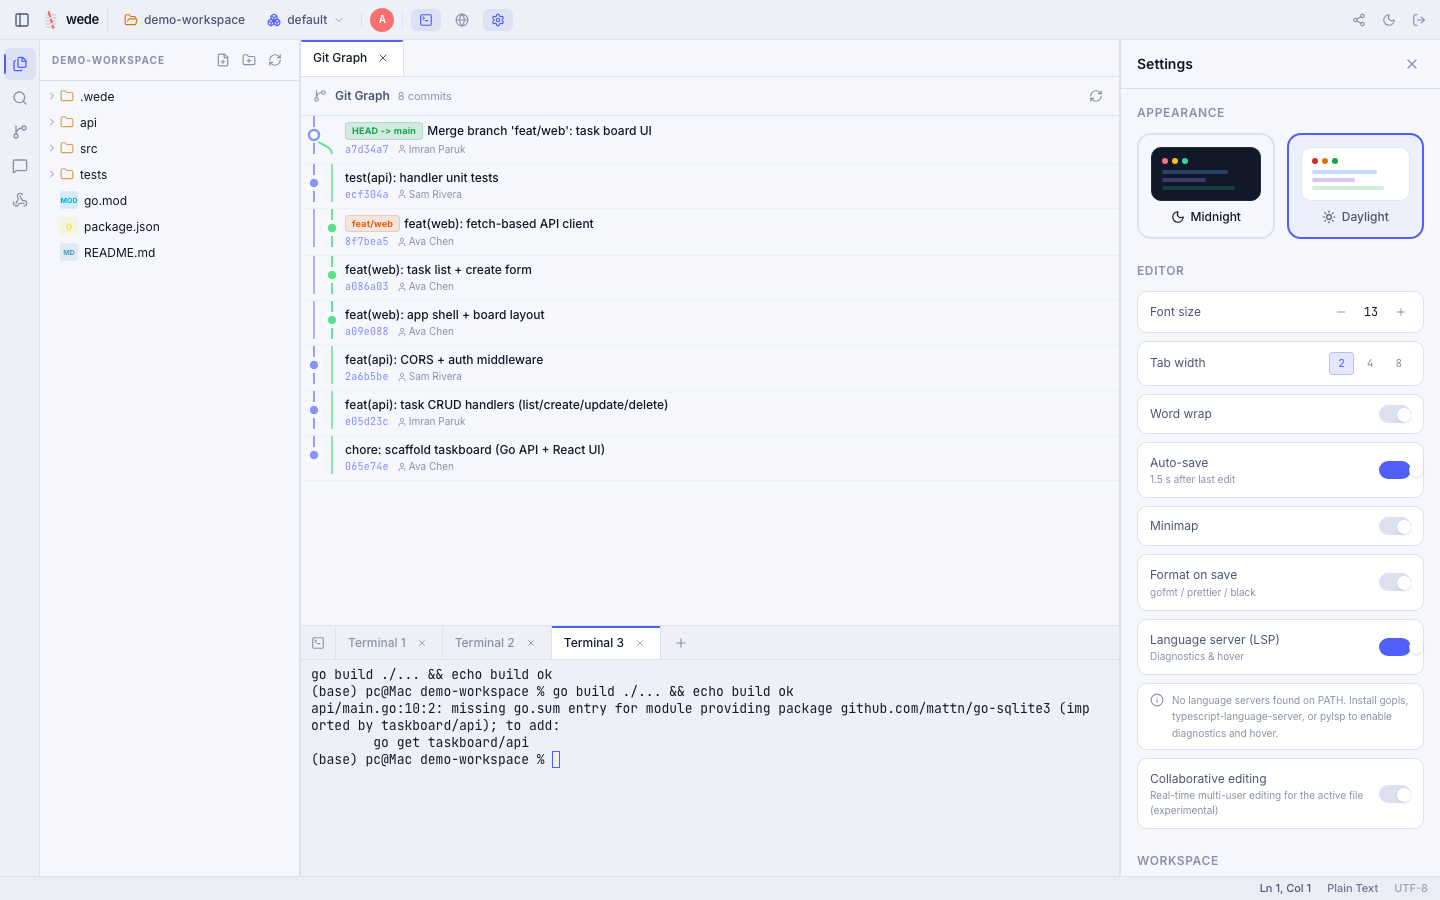
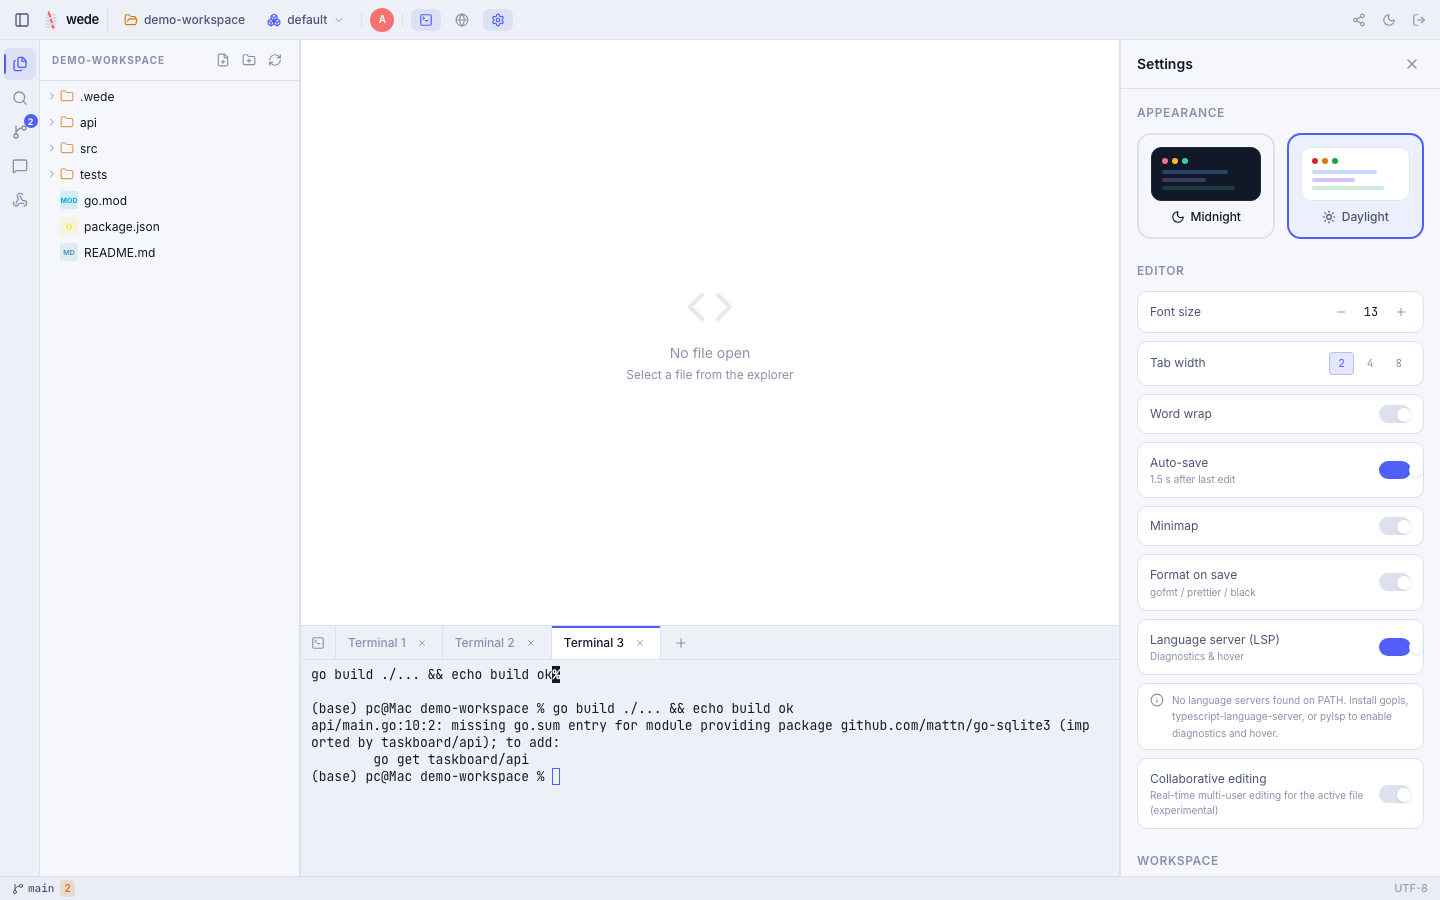
feat(git): Source Control panel restructured to match VS Code (no tabs)
Replace the Changes/History/Branches/Remote tab bar with VS Code's layout: a
'Source Control' header with action icons (open Git Graph in the editor,
Branches, Remotes, Refresh) and a single Changes view (commit box + Commit +
Staged/Changes groups + Stash). Branches/Remotes are sub-views opened from the
header with a back affordance; History/graph opens full-width in the editor.
Removed now-dead log/graph state + handlers from the sidebar panel.

diff --git a/src/components/GitPanel.jsx b/src/components/GitPanel.jsx
@@ -1,7 +1,7 @@
 import { useState, useEffect, useCallback, useMemo, useRef } from 'react'
 import {
   GitBranch, Plus, Minus, RefreshCw, Check,
-  ChevronDown, ChevronRight, Copy, GitCommit,
+  ChevronDown, ChevronRight, ChevronLeft, Copy, GitCommit,
   GitMerge, Clock, User, Hash, Upload, Download, CloudDownload,
   AlertCircle, X, Trash2, Eye, EyeOff, Package,
   Tag, RotateCcw, Scissors, Columns, AlignLeft, ArrowRightLeft,
@@ -1283,9 +1283,6 @@ const LOG_PAGE_SIZE = 50
 
 export default function GitPanel({ authFetch, visible, readOnly = false, onOpenGraph }) {
   const [status, setStatus]     = useState({ branch: '', files: [], isRepo: true })
-  const [log, setLog]           = useState([])
-  const [logCount, setLogCount] = useState(LOG_PAGE_SIZE)
-  const [loadingMore, setLoadingMore] = useState(false)
   const [branches, setBranches] = useState([])
   const [remotes, setRemotes]   = useState([])
   const [stashes, setStashes]   = useState([])
@@ -1308,41 +1305,30 @@ export default function GitPanel({ authFetch, visible, readOnly = false, onOpenG
     setToast({ message, type })
   }, [])
 
-  const refresh = useCallback(async (quiet = false, count = null) => {
+  const refresh = useCallback(async (quiet = false) => {
     if (!visible) return
     if (!quiet) setRefreshing(true)
-    const n = count ?? logCount
     try {
-      const [sRes, lRes, bRes, rRes, stRes] = await Promise.all([
+      const [sRes, bRes, rRes, stRes] = await Promise.all([
         authFetch('/api/git/status'),
-        authFetch(`/api/git/log?count=${n}`),
         authFetch('/api/git/branches'),
         authFetch('/api/git/remotes'),
         authFetch('/api/git/stash'),
       ])
-      const [sData, lData, bData, rData, stData] = await Promise.all([
-        sRes.json(), lRes.json(), bRes.json(), rRes.json(), stRes.json(),
+      const [sData, bData, rData, stData] = await Promise.all([
+        sRes.json(), bRes.json(), rRes.json(), stRes.json(),
       ])
       setStatus(sData)
-      setLog(lData.entries || [])
       setBranches(bData.branches || [])
       setRemotes(rData.remotes || [])
       setStashes(stData.stashes || [])
     } catch { /* ignore */ }
     setRefreshing(false)
-  }, [authFetch, visible, logCount])
+  }, [authFetch, visible])
 
   /* eslint-disable react-hooks/set-state-in-effect */
   useEffect(() => { refresh(true) }, [refresh])
   /* eslint-enable react-hooks/set-state-in-effect */
-
-  const handleLoadMore = async () => {
-    const next = logCount + LOG_PAGE_SIZE
-    setLoadingMore(true)
-    setLogCount(next)
-    await refresh(true, next)
-    setLoadingMore(false)
-  }
 
   const handleStage   = async (path) => {
     if (readOnly) return
@@ -1431,75 +1417,6 @@ export default function GitPanel({ authFetch, visible, readOnly = false, onOpenG
     setMergingBranch(null)
   }
 
-  const handleCommitAction = async (action, hash, extra) => {
-    if (readOnly) return
-    switch (action) {
-      case 'checkout': {
-        const res = await authFetch('/api/git/checkout', {
-          method: 'POST', headers: { 'Content-Type': 'application/json' },
-          body: JSON.stringify({ branch: hash }),
-        })
-        const data = await res.json()
-        if (data.error) showToast(data.error, 'error')
-        else refresh(true)
-        break
-      }
-      case 'branchHere': {
-        const name = extra
-        const res = await authFetch('/api/git/branch', {
-          method: 'POST', headers: { 'Content-Type': 'application/json' },
-          body: JSON.stringify({ name, checkout: true }),
-        })
-        const data = await res.json()
-        if (data.error) showToast(data.error, 'error')
-        else { showToast(`Switched to new branch "${name}"`, 'success'); refresh(true) }
-        break
-      }
-      case 'cherryPick': {
-        const res = await authFetch('/api/git/cherry-pick', {
-          method: 'POST', headers: { 'Content-Type': 'application/json' },
-          body: JSON.stringify({ hash }),
-        })
-        const data = await res.json()
-        if (data.error) showToast('Cherry-pick failed: ' + data.error, 'error')
-        else { showToast('Cherry-picked ' + hash.slice(0, 7), 'success'); refresh(true) }
-        break
-      }
-      case 'revert': {
-        const res = await authFetch('/api/git/revert', {
-          method: 'POST', headers: { 'Content-Type': 'application/json' },
-          body: JSON.stringify({ hash }),
-        })
-        const data = await res.json()
-        if (data.error) showToast('Revert failed: ' + data.error, 'error')
-        else { showToast('Reverted ' + hash.slice(0, 7), 'success'); refresh(true) }
-        break
-      }
-      case 'resetSoft': {
-        const res = await authFetch('/api/git/reset', {
-          method: 'POST', headers: { 'Content-Type': 'application/json' },
-          body: JSON.stringify({ hash, mode: 'soft' }),
-        })
-        const data = await res.json()
-        if (data.error) showToast('Reset failed: ' + data.error, 'error')
-        else { showToast('Soft reset to ' + hash.slice(0, 7), 'success'); refresh(true) }
-        break
-      }
-      case 'resetHard': {
-        if (!window.confirm('Hard reset? Uncommitted changes will be lost.')) break
-        const res = await authFetch('/api/git/reset', {
-          method: 'POST', headers: { 'Content-Type': 'application/json' },
-          body: JSON.stringify({ hash, mode: 'hard' }),
-        })
-        const data = await res.json()
-        if (data.error) showToast('Reset failed: ' + data.error, 'error')
-        else { showToast('Hard reset to ' + hash.slice(0, 7), 'success'); refresh(true) }
-        break
-      }
-      default:
-        break
-    }
-  }
 
   const runRemoteOp = async (op) => {
     if (readOnly) return
@@ -1592,7 +1509,6 @@ export default function GitPanel({ authFetch, visible, readOnly = false, onOpenG
   const conflicted = status.files?.filter((f) => f.conflicted) || []
   const staged     = status.files?.filter((f) => f.staged && !f.conflicted)  || []
   const unstaged   = status.files?.filter((f) => !f.staged && !f.conflicted) || []
-  const totalChanges = staged.length + unstaged.length + conflicted.length
 
   if (!status.isRepo && status.isRepo !== undefined) {
     return (
@@ -1615,31 +1531,18 @@ export default function GitPanel({ authFetch, visible, readOnly = false, onOpenG
 
   return (
     <div className="h-full flex flex-col bg-bg-secondary overflow-hidden">
-      <PanelHeader branch={status.branch} onRefresh={refresh} refreshing={refreshing} readOnly={readOnly} />
+      <PanelHeader onRefresh={refresh} refreshing={refreshing} readOnly={readOnly}
+        section={section} setSection={setSection} onOpenGraph={onOpenGraph} />
 
-      {/* Section tabs */}
-      <div className="flex border-b border-border shrink-0 bg-bg-secondary">
-        {TABS.map(({ key, label }) => {
-          const badge = key === 'changes' ? totalChanges : key === 'branches' ? branches.length : 0
-          const active = section === key
-          return (
-            <button key={key} onClick={() => (key === 'graph' && onOpenGraph ? onOpenGraph() : setSection(key))}
-              className={`relative flex-1 flex items-center justify-center gap-1.5 py-2 text-[11px] font-medium transition-colors ${
-                active ? 'text-text-primary' : 'text-text-muted hover:text-text-secondary'
-              }`}>
-              {label}
-              {badge > 0 && (
-                <span className={`text-[9px] font-bold px-1.5 py-0.5 rounded-full ${
-                  active ? 'bg-accent/20 text-accent' : 'bg-bg-active text-text-muted'
-                }`}>
-                  {badge}
-                </span>
-              )}
-              {active && <span className="tab-active-line" />}
-            </button>
-          )
-        })}
-      </div>
+      {/* Sub-view title (when not on the main Changes view) */}
+      {section !== 'changes' && (
+        <button onClick={() => setSection('changes')}
+          className="flex items-center gap-1.5 px-3 py-1.5 border-b border-border text-[11px] text-text-muted hover:text-text-primary hover:bg-bg-hover transition-colors shrink-0">
+          <ChevronLeft className="w-3.5 h-3.5" />
+          <span className="font-medium capitalize">{section}</span>
+          <span className="ml-auto text-[10px]">back to changes</span>
+        </button>
+      )}
 
       {/* Toast */}
       {toast && (
@@ -1740,20 +1643,7 @@ export default function GitPanel({ authFetch, visible, readOnly = false, onOpenG
           </div>
         )}
 
-        {/* ── History (git graph) ── */}
-        {section === 'graph' && (
-          <div className="flex flex-col h-full min-h-0">
-            <GitGraph
-              entries={log}
-              authFetch={authFetch}
-              onCommitAction={handleCommitAction}
-              readOnly={readOnly}
-              totalCount={logCount}
-              onLoadMore={handleLoadMore}
-              loadingMore={loadingMore}
-            />
-          </div>
-        )}
+        {/* History/graph opens full-width in the editor (see onOpenGraph). */}
 
         {/* ── Branches ── */}
         {section === 'branches' && (
@@ -2000,34 +1890,38 @@ function RemoteOpBtn({ icon: Icon, label, desc, loading, disabled, onClick }) {
   )
 }
 
-/* Shared panel header */
-function PanelHeader({ branch, onRefresh, refreshing, readOnly }) {
+function PanelHeader({ onRefresh, refreshing, readOnly, section, setSection, onOpenGraph }) {
+  const btn = 'p-1.5 rounded-md transition-colors shrink-0'
+  const inactive = 'text-text-muted hover:text-text-primary hover:bg-bg-hover'
   return (
-    <div className="flex items-center justify-between px-3 py-2 border-b border-border shrink-0">
-      <div className="flex items-center gap-2 min-w-0 overflow-hidden">
-        <GitMerge className="w-3.5 h-3.5 text-accent shrink-0" />
-        <span className="text-[11px] font-semibold text-text-secondary uppercase tracking-widest shrink-0">
+    <div className="flex items-center justify-between px-2.5 py-1.5 border-b border-border shrink-0">
+      <div className="flex items-center gap-1.5 min-w-0 overflow-hidden">
+        <span className="text-[11px] font-semibold text-text-secondary uppercase tracking-wider shrink-0">
           Source Control
         </span>
-        {branch && (
-          <span className="flex items-center gap-1 ml-1 px-2 py-0.5 rounded-md text-[11px] font-mono font-semibold text-accent bg-accent/10 border border-accent/15 truncate">
-            <GitBranch className="w-2.5 h-2.5 shrink-0" />
-            {branch}
-          </span>
-        )}
         {readOnly && (
-          <span className="ml-1 px-1.5 py-px rounded text-[9px] font-bold bg-yellow/10 text-yellow border border-yellow/20 shrink-0">
+          <span className="ml-0.5 px-1.5 py-px rounded text-[9px] font-bold bg-yellow/10 text-yellow border border-yellow/20 shrink-0">
             READ ONLY
           </span>
         )}
       </div>
-      <button
-        onClick={() => onRefresh(false)}
-        className={`p-1.5 rounded-md text-text-muted hover:text-text-primary hover:bg-bg-hover transition-colors shrink-0 ${refreshing ? 'animate-spin' : ''}`}
-        title="Refresh"
-      >
-        <RefreshCw className="w-3.5 h-3.5" />
-      </button>
+      <div className="flex items-center gap-0.5 shrink-0">
+        <button onClick={onOpenGraph} title="Open Git Graph" className={`${btn} ${inactive}`}>
+          <GitCommit className="w-3.5 h-3.5" />
+        </button>
+        <button onClick={() => setSection(section === 'branches' ? 'changes' : 'branches')} title="Branches"
+          className={`${btn} ${section === 'branches' ? 'text-accent bg-accent/10' : inactive}`}>
+          <GitBranch className="w-3.5 h-3.5" />
+        </button>
+        <button onClick={() => setSection(section === 'remotes' ? 'changes' : 'remotes')} title="Remotes"
+          className={`${btn} ${section === 'remotes' ? 'text-accent bg-accent/10' : inactive}`}>
+          <CloudDownload className="w-3.5 h-3.5" />
+        </button>
+        <button onClick={() => onRefresh(false)} title="Refresh"
+          className={`${btn} ${inactive} ${refreshing ? 'animate-spin' : ''}`}>
+          <RefreshCw className="w-3.5 h-3.5" />
+        </button>
+      </div>
     </div>
   )
 }
